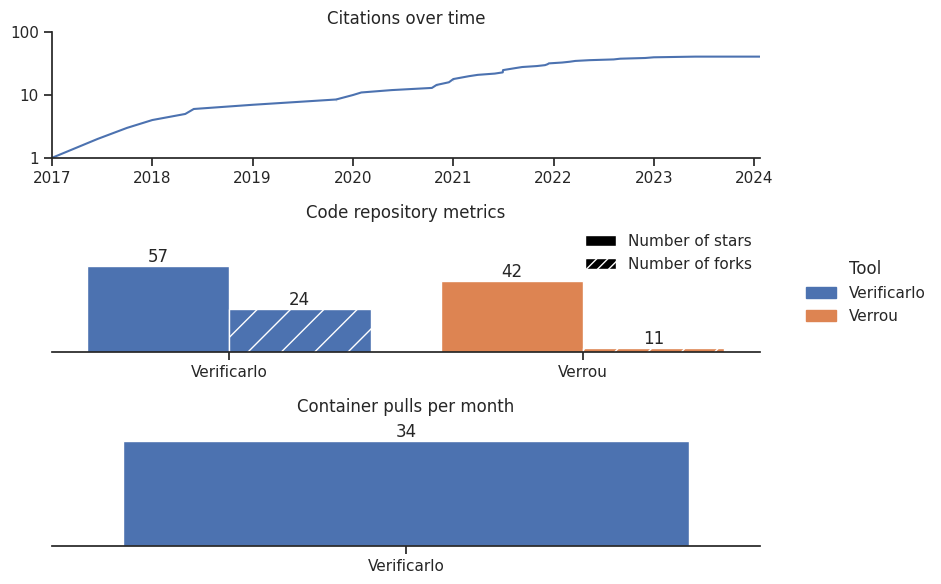
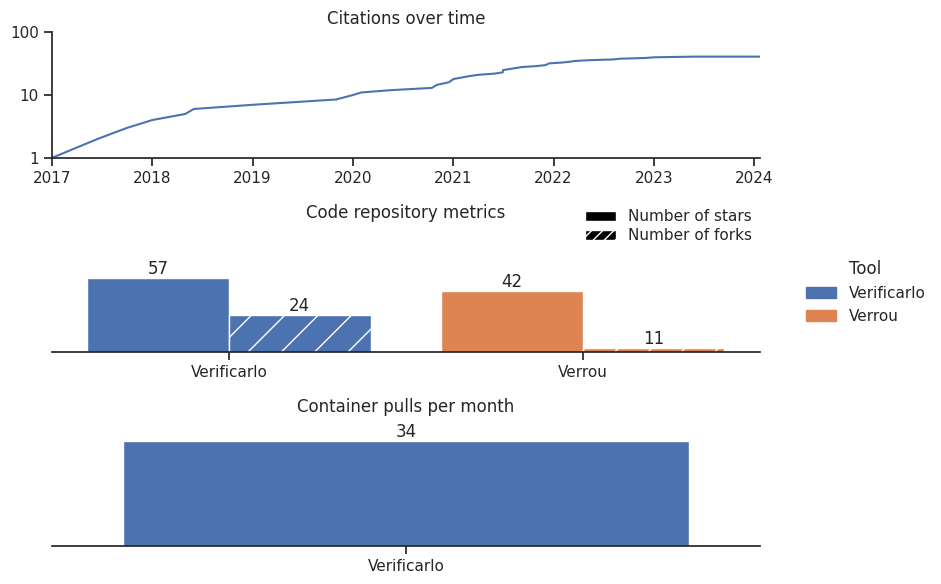
sort tools by alphabetical order instead of metric value

diff --git a/code/generate_figures.py b/code/generate_figures.py
@@ -113,7 +113,6 @@ def plot_repo(df_metrics: pd.DataFrame, ax=None, hatches=None, palette=None) -> 
             f', got {hatches}'
         )
     
-    df_metrics = df_metrics.sort_values(COL_REPO_STARS, ascending=False)
     n_tools = len(df_metrics)
     
     col_metric = 'metric'
@@ -132,6 +131,7 @@ def plot_repo(df_metrics: pd.DataFrame, ax=None, hatches=None, palette=None) -> 
         hue=col_metric,
         ax=ax,
         log_scale=True,
+        y_max_factor=1.3,
     )
 
     # set bar colour and hatch style
@@ -152,9 +152,10 @@ def plot_repo(df_metrics: pd.DataFrame, ax=None, hatches=None, palette=None) -> 
             for metric, hatch in zip(['stars', 'forks'], hatches)
         },
         frameon=False,
-        loc='upper right',
         borderpad=0,
+        loc='center right',
         bbox_to_anchor=(1, 1),
+        labelspacing=0.25,
     )
 
     ax.set_title('Code repository metrics')
@@ -163,7 +164,7 @@ def plot_repo(df_metrics: pd.DataFrame, ax=None, hatches=None, palette=None) -> 
 
 def plot_containers_pulls(df_metrics: pd.DataFrame, ax=None, palette=None) -> plt.Axes:
     ax = plot_bar(
-        data=df_metrics.sort_values(generate_col_standardized(COL_CONTAINER_PULLS), ascending=False),
+        data=df_metrics,
         x=COL_NAME,
         y=generate_col_standardized(COL_CONTAINER_PULLS),
         ax=ax,
@@ -249,7 +250,7 @@ def plot_python_timeseries(df_metrics: pd.DataFrame, ax=None, palette=None) -> p
 
 def plot_python_total(df_metrics: pd.DataFrame, ax=None, palette=None) -> plt.Axes:
     ax = plot_bar(
-        data=df_metrics.sort_values(generate_col_standardized(COL_PYTHON_DOWNLOADS_TOTAL), ascending=False),
+        data=df_metrics,
         y=generate_col_standardized(COL_PYTHON_DOWNLOADS_TOTAL),
         x=COL_NAME,
         ax=ax,
@@ -335,6 +336,9 @@ def generate_figures(
 
     # process palette
     palette = process_palette(df_metrics, palette=palette)
+
+    # sort tools
+    df_metrics = df_metrics.sort_values(COL_NAME)
 
     for section, df_metrics_section in df_metrics.groupby(COL_SECTION):
 
